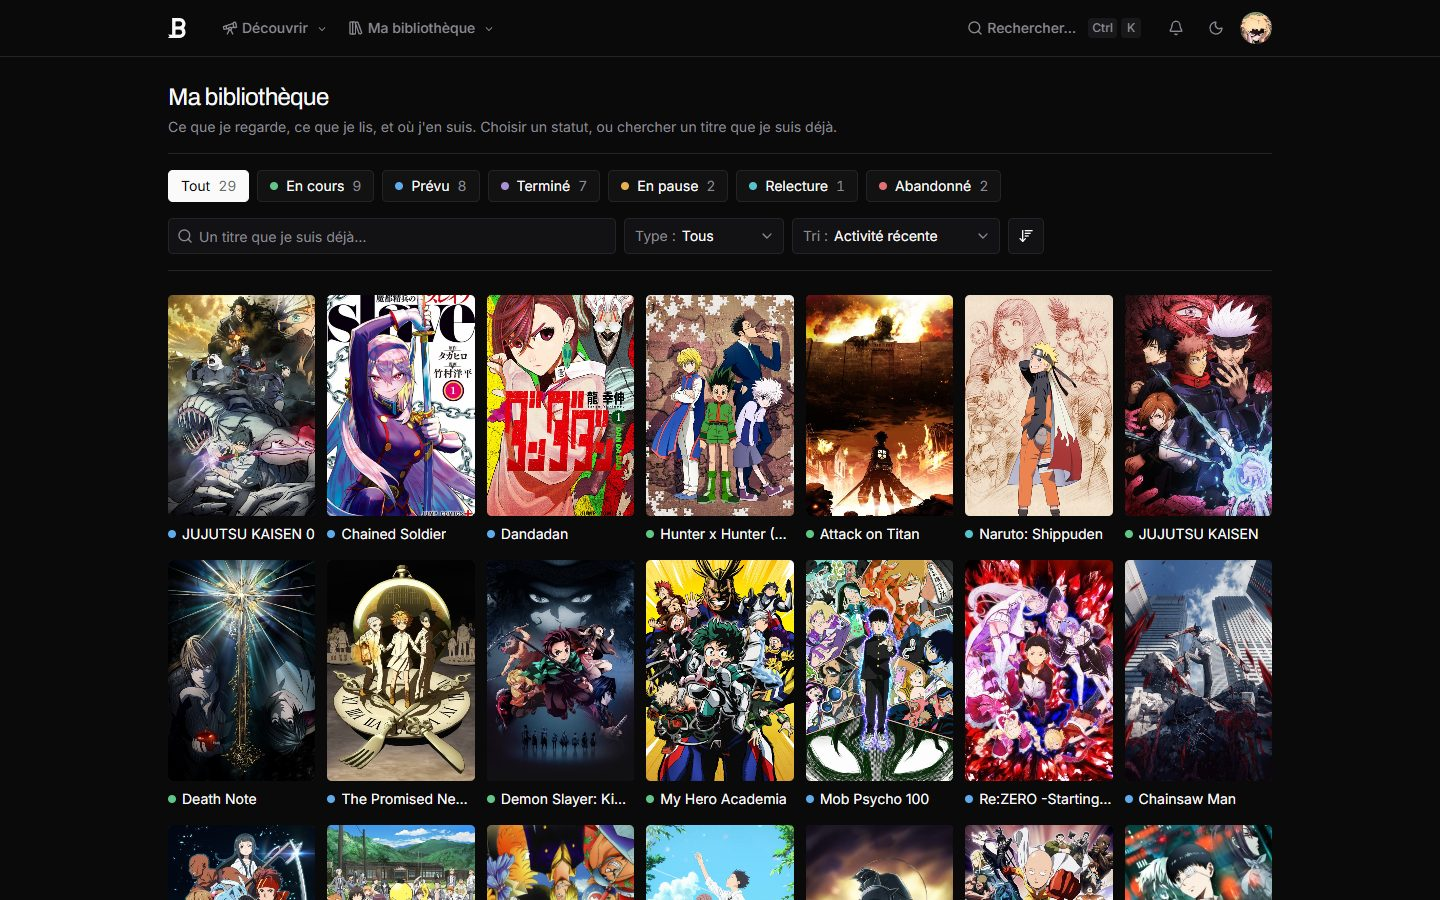
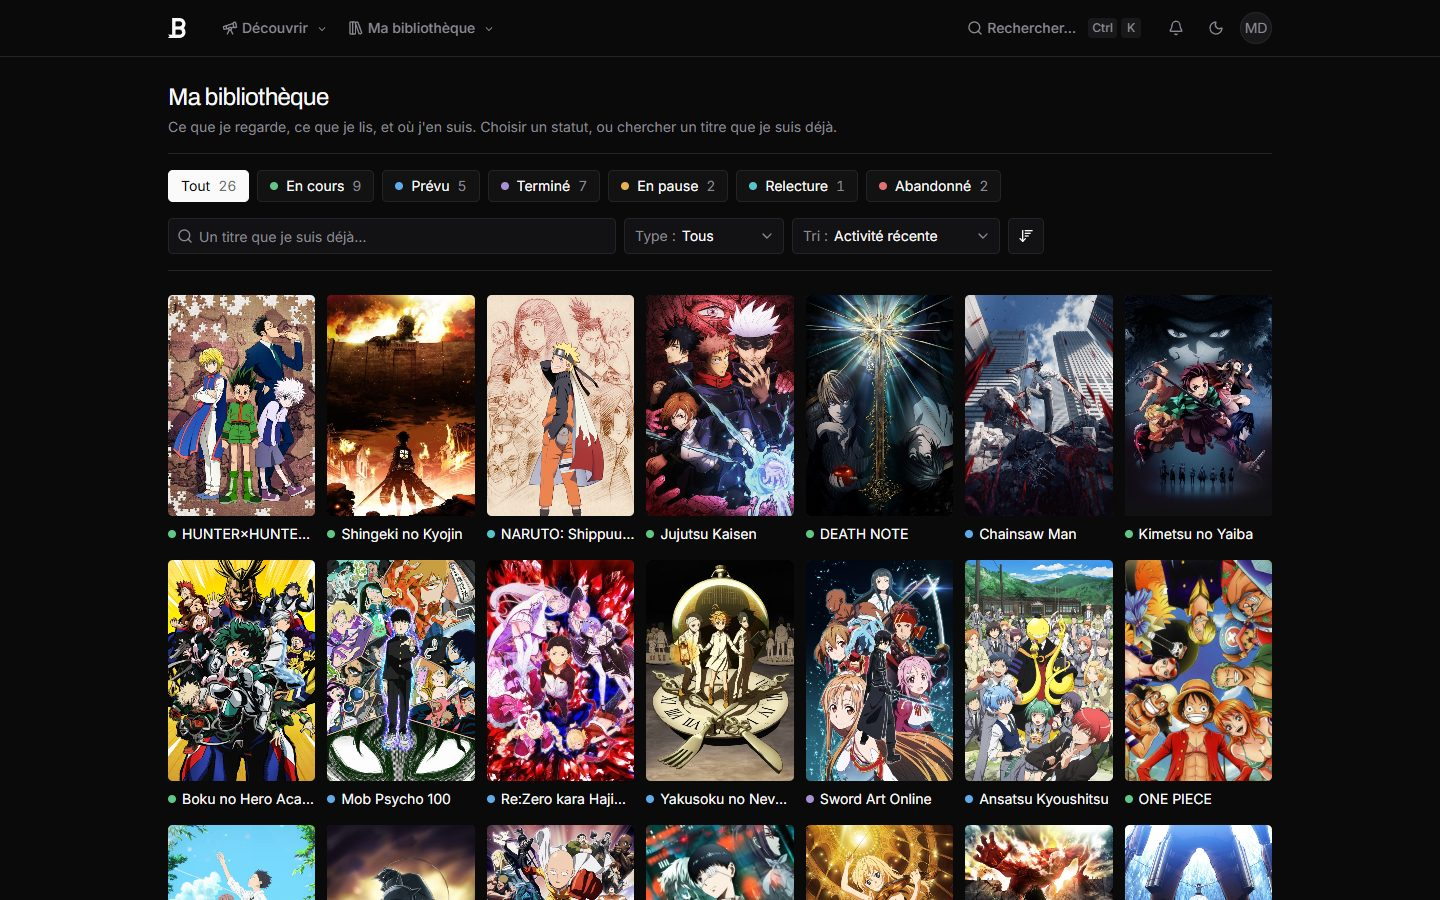
feat(entree): captures prises sur un compte de démonstration
Le profil montrait le nom et l'avatar d'Alexis. @demo, rempli par
pnpm db:seed --user=demo, n'a rien de personnel (D63).

diff --git a/prisma/seed.ts b/prisma/seed.ts
@@ -754,8 +754,12 @@ async function main() {
    * Le seed ne crée **aucun** utilisateur : un compte sans `Account` GitHub ne peut pas se
    * connecter, il encombrerait la liste des membres sans rien pouvoir montrer.
    */
+  // `--user=demo` vise un autre compte, celui des captures d'écran par exemple (D63).
+  const target = process.argv
+    .find((arg) => arg.startsWith("--user="))
+    ?.slice("--user=".length);
   const user = await prisma.user.findFirst({
-    where: { status: "APPROVED" },
+    where: { status: "APPROVED", ...(target ? { username: target } : {}) },
     orderBy: { createdAt: "asc" },
     select: { id: true, username: true },
   });

diff --git a/docs/decisions.md b/docs/decisions.md
@@ -188,5 +188,6 @@ l'historique git (`git show e122516:docs/`). Les numéros continuent après **D4
   toucher au code.
 - **D63** — La landing et le README montrent l'app par quatre captures (accueil, fiche, bibliothèque,
   profil) en 1440 × 900, thème sombre, JPEG qualité 82, dans `public/screenshots/`. Elles se prennent
-  au navigateur Playwright sur une session de membre, l'indicateur de Next et la barre de défilement
-  masqués, et se refont quand un de ces écrans change. Elles montrent le vrai contenu d'Alexis.
+  au navigateur Playwright, l'indicateur de Next et la barre de défilement masqués, et se refont
+  quand un de ces écrans change. **Jamais sur un vrai compte** : le profil affiche nom et avatar. On
+  prend `@demo` (« Membre démo », sans avatar), rempli par `pnpm db:seed --user=demo`.
